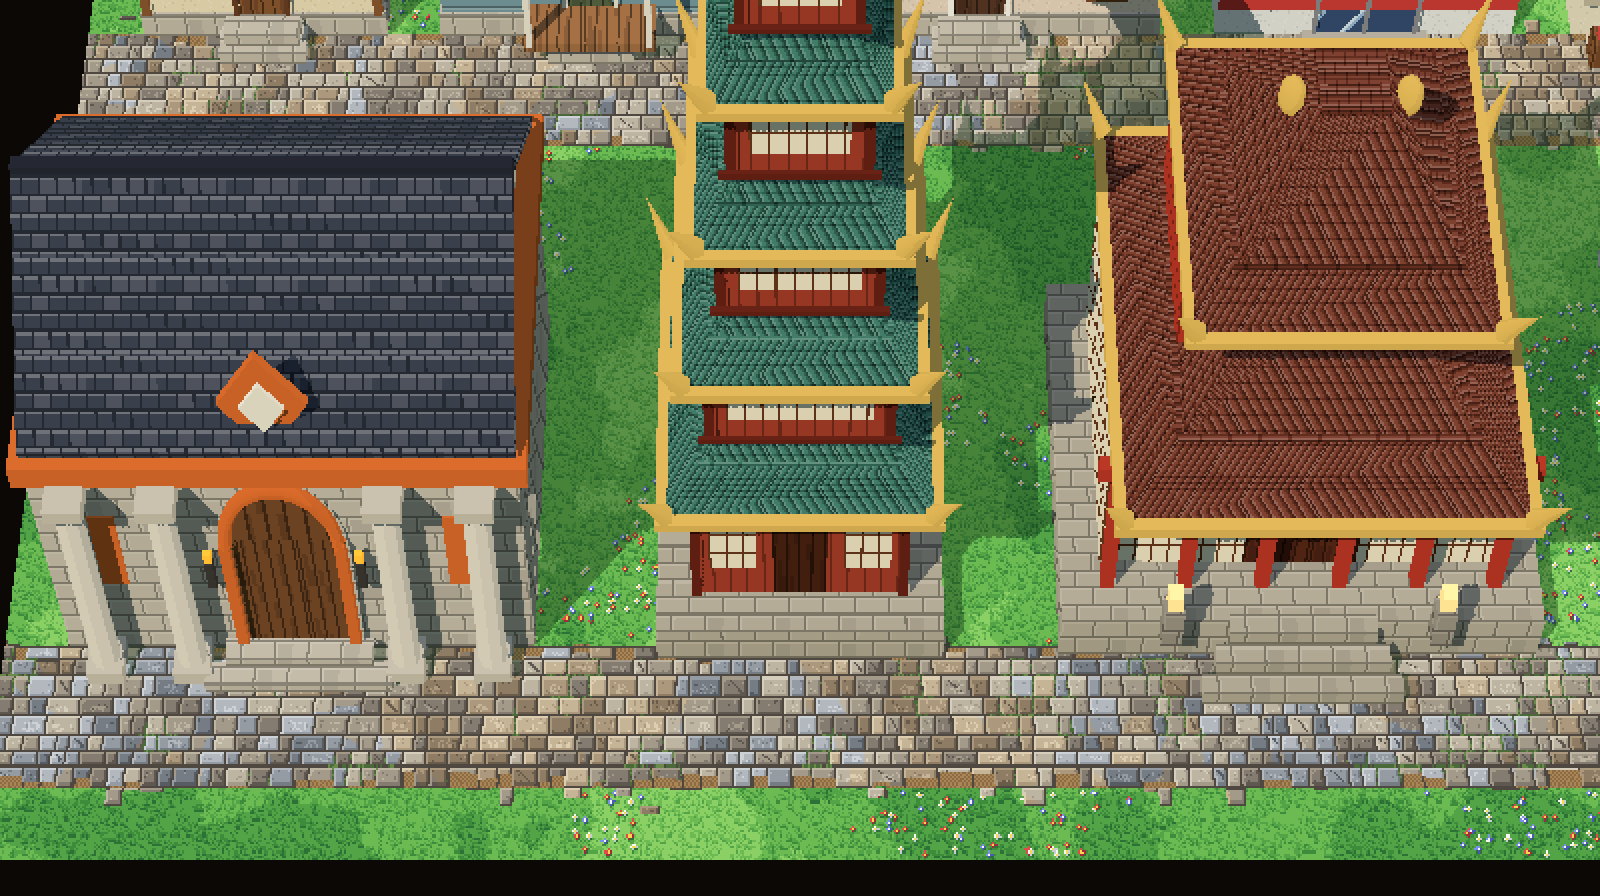
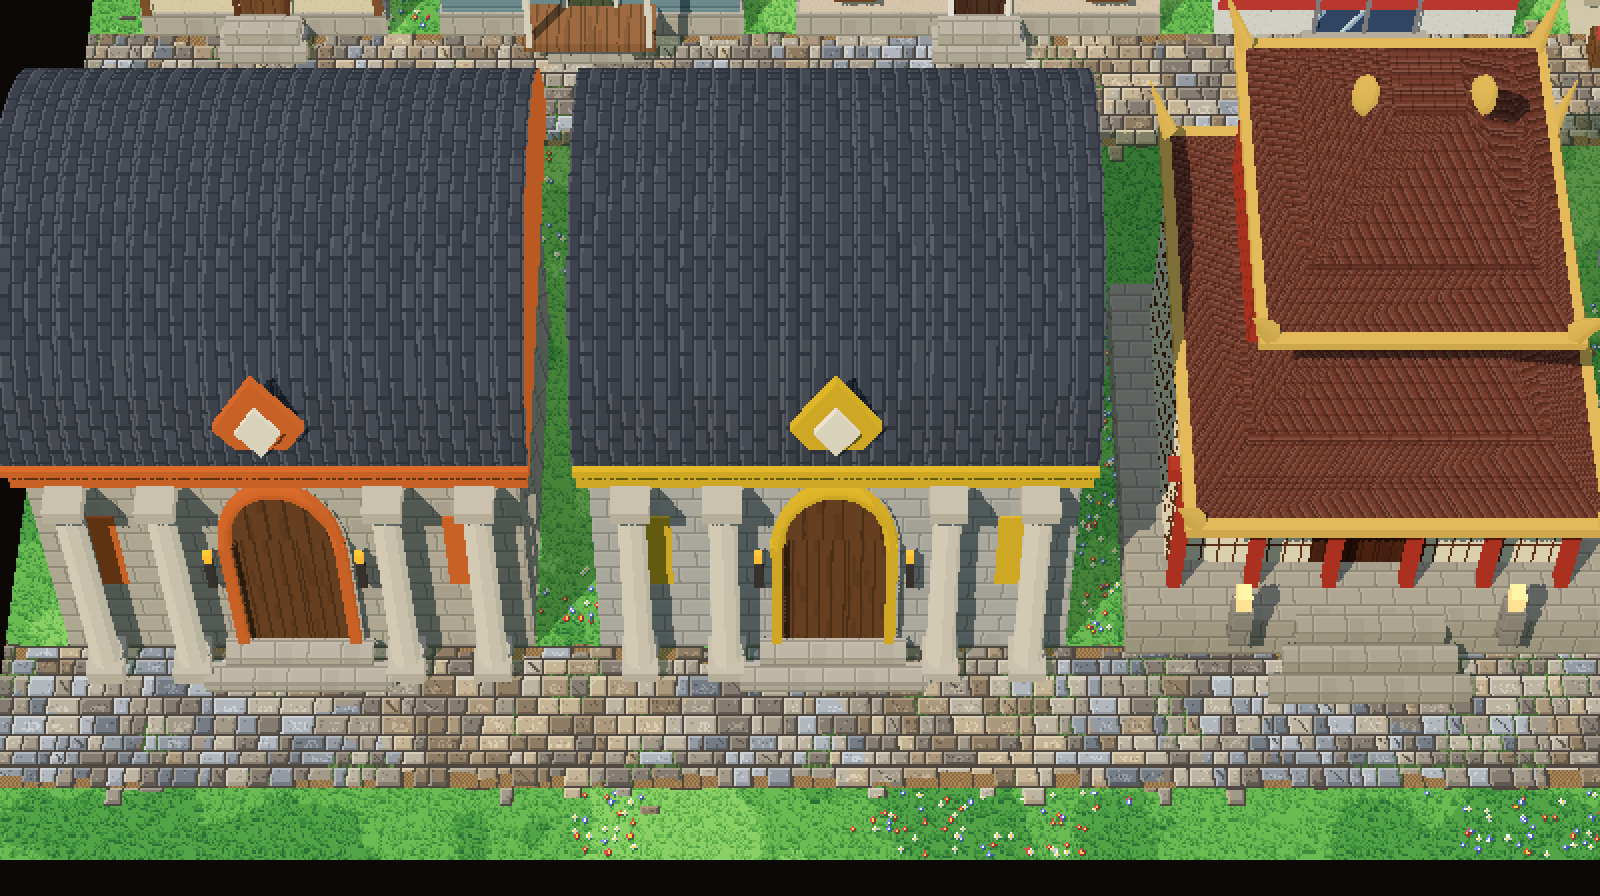
outil(odyssee): bâtiments 3D plus doux, toits arrondis, pagode monumentale [skip changelog]
Textures des bâtiments adoucies (contraste des motifs réduit, ombrage en paliers plus proches). Centre de soins,
boutique et arènes ont un toit en voûte arrondie. La pagode devient monumentale (emprise 9 × 9, grand perron,
sept étages octogonaux à balcons, toits courbes aux crochets dorés, flèche) : en jeu, au pied de l'escalier, on n'en
voit que la base. Scène « monument » dans galerie3d.html.

Claude-Session: https://claude.ai/code/session_01E9CUaRG7xUjwzj1i4ypday

diff --git a/tools/pixelforge/modeles3d.js b/tools/pixelforge/modeles3d.js
@@ -9,11 +9,20 @@ export function atelier(D) {
   const hex = (c) => [parseInt(c.slice(1, 3), 16), parseInt(c.slice(3, 5), 16), parseInt(c.slice(5, 7), 16)];
   const mix = (c, f) => { const [r, g, b] = hex(c); const m = (v) => Math.max(0, Math.min(255, Math.round(f < 0 ? v * (1 + f) : v + (255 - v) * f))); return `rgb(${m(r)},${m(g)},${m(b)})`; };
   const S = D / 32, cache = new Map();
+  const NETTES = new Set(['verre', 'croix', 'sac', 'etals', 'sol', 'shoji', 'pagodeMur']);
   function tex(key, w, h, draw, rep = true) {
     if (cache.has(key)) return cache.get(key);
     const c = document.createElement('canvas'); c.width = w; c.height = h; const g = c.getContext('2d');
     const px = (x, y, col) => { g.fillStyle = col; g.fillRect(x, y, 1, 1); };
     draw(g, px, w, h);
+    if (!NETTES.has(key)) {
+      // douceur : on rapproche chaque pixel de la teinte moyenne de la texture (motif gardé, contraste divisé par ~2)
+      const im = g.getImageData(0, 0, w, h), d = im.data, n = w * h, moy = [0, 0, 0];
+      for (let i = 0; i < d.length; i += 4) { moy[0] += d[i]; moy[1] += d[i + 1]; moy[2] += d[i + 2]; }
+      for (let k = 0; k < 3; k++) moy[k] /= n;
+      for (let i = 0; i < d.length; i += 4) for (let k = 0; k < 3; k++) d[i + k] = Math.round(moy[k] + (d[i + k] - moy[k]) * 0.55);
+      g.putImageData(im, 0, 0);
+    }
     const t = new THREE.CanvasTexture(c); t.magFilter = t.minFilter = THREE.NearestFilter; t.generateMipmaps = false;
     t.colorSpace = THREE.SRGBColorSpace; if (rep) t.wrapS = t.wrapT = THREE.RepeatWrapping; cache.set(key, t); return t;
   }
@@ -51,7 +60,7 @@ export function atelier(D) {
   };
 
   /* -------------------------------------------------------------- matériaux, primitives ----------------------------- */
-  const paliers = (() => { const d = new Uint8Array([90, 160, 225, 255]); const t = new THREE.DataTexture(d, 4, 1, THREE.RedFormat); t.minFilter = t.magFilter = THREE.NearestFilter; t.needsUpdate = true; return t; })();
+  const paliers = (() => { const d = new Uint8Array([135, 180, 222, 255]); const t = new THREE.DataTexture(d, 4, 1, THREE.RedFormat); t.minFilter = t.magFilter = THREE.NearestFilter; t.needsUpdate = true; return t; })();
   const M = (o) => new THREE.MeshToonMaterial({ gradientMap: paliers, ...o });
   const COL = (c) => M({ color: new THREE.Color(c) });
   const LUM = (c, e) => M({ color: new THREE.Color(c), emissive: new THREE.Color(e) });
@@ -95,6 +104,18 @@ export function atelier(D) {
     G.add(at(boite(w, 0.12, 0.16, COL(faite)), cx, y + hr + 0.08, cz));
     const sh = new THREE.Shape(); sh.moveTo(-(z1 - z0) / 2, 0); sh.lineTo((z1 - z0) / 2, 0); sh.lineTo(0, hr); sh.closePath();
     for (const xx of [x0 + 0.01, x1 - 0.01]) { const gm = new THREE.Mesh(new THREE.ShapeGeometry(sh), pignon); gm.rotation.y = Math.PI / 2 * (xx < cx ? -1 : 1); gm.position.set(xx, y, cz); gm.castShadow = true; G.add(gm); }
+  }
+  /** toit arrondi (voûte en demi-ellipse, axe le long de x) : x0 → x1, profondeur z0 → z1, hauteur hr, débord deb */
+  function voute(G, x0, x1, z0, z1, y, hr, mat, bout, deb = 0.25) {
+    const a = (z1 - z0) / 2 + deb, sh = new THREE.Shape(), n = 20;
+    sh.moveTo(-a, 0); for (let i = 1; i <= n; i++) { const th = Math.PI * i / n; sh.lineTo(-a * Math.cos(th), hr * Math.sin(th)); }
+    sh.lineTo(-a, 0);
+    const g = new THREE.ExtrudeGeometry(sh, { depth: x1 - x0 + 2 * deb, bevelEnabled: false, curveSegments: n });
+    const m = new THREE.Mesh(g, [bout, mat]); m.castShadow = m.receiveShadow = true;
+    m.rotation.y = Math.PI / 2; m.position.set(x0 - deb, y, (z0 + z1) / 2); G.add(m);
+    // bordure de la voûte (gouttière) devant et derrière
+    for (const s of [-1, 1]) G.add(at(boite(x1 - x0 + 2 * deb, 0.1, 0.12, bout), (x0 + x1) / 2, y + 0.04, (z0 + z1) / 2 + s * a));
+    return m;
   }
   /** toit à quatre pans (pyramide tronquée) : rx, rz demi-côtés en bas, k part du haut (0 = pointe) */
   function toit4(G, cx, cz, y, rx, rz, hr, mat, k = 0.25) {
@@ -174,26 +195,25 @@ export function atelier(D) {
   B.centre = () => {
     const G = new THREE.Group(), w = 5, d = 4, H = 2.4, cx = 2.5;
     G.add(at(boite(w, H, d, M({ map: TX.enduit('#eceef2') })), cx, H / 2, d / 2));
-    G.add(at(boite(w + 0.3, 0.3, d + 0.3, M({ map: TX.tole('#d0403c') })), cx, H + 0.15, d / 2));
-    G.add(at(boite(w + 0.34, 0.2, 0.12, COL('#ffffff')), cx, H + 0.02, d + 0.15));
+    G.add(at(boite(w + 0.3, 0.22, d + 0.3, COL('#f4f4f6')), cx, H + 0.11, d / 2));                    // corniche blanche
+    voute(G, 0, w, 0, d, H + 0.22, 1.3, M({ map: TX.tole('#d0403c') }), COL('#b83434'));
     G.add(at(boite(w, 0.18, 0.04, COL('#d0403c')), cx, 0.45, d + 0.02));
     for (const xx of [0.75, 4.25]) fenetre(G, xx, 1.5, d, 0.9, 0.85, COL('#c6c8d0'));
     G.add(at(boite(w, 0.14, 0.04, COL('#d0403c')), cx, 2.25, d + 0.02));
     portesVitrees(G, cx, d, 1.7, 1.45, COL('#8c8e96'));
     const au = boite(2.3, 0.08, 0.7, COL('#d0403c')); au.rotation.x = 0.25; G.add(at(au, cx, 1.62, d + 0.32));
-    const disc = new THREE.Mesh(new THREE.CylinderGeometry(0.55, 0.55, 0.14, 24), [COL('#e4e6ec'), M({ map: TX.croix() }), COL('#e4e6ec')]);
-    disc.rotation.x = Math.PI / 2; disc.castShadow = true; G.add(at(disc, cx, H + 0.85, d - 0.2));
-    G.add(at(boite(0.12, 0.6, 0.12, COL('#8c8e96')), cx, H + 0.45, d - 0.3));
+    const disc = new THREE.Mesh(new THREE.CylinderGeometry(0.5, 0.5, 0.14, 24), [COL('#e4e6ec'), M({ map: TX.croix() }), COL('#e4e6ec')]);
+    disc.rotation.x = Math.PI / 2; disc.castShadow = true; G.add(at(disc, cx, H + 0.7, d + 0.2));
     return G;
   };
   /** boutique (4 × 4) : toit bleu, enseigne au sac, store rayé, vitrine remplie, portes vitrées de 2 cases */
   B.boutique = () => {
     const G = new THREE.Group(), w = 4, d = 4, H = 2.3;
     G.add(at(boite(w, H, d, M({ map: TX.enduit('#ece4d0') })), w / 2, H / 2, d / 2));
-    G.add(at(boite(w + 0.3, 0.3, d + 0.3, M({ map: TX.tole('#3a68c8') })), w / 2, H + 0.15, d / 2));
-    G.add(at(boite(w + 0.34, 0.24, 0.12, COL('#284a9c')), w / 2, H + 0.02, d + 0.15));
+    G.add(at(boite(w + 0.3, 0.22, d + 0.3, COL('#f4f4f6')), w / 2, H + 0.11, d / 2));
+    voute(G, 0, w, 0, d, H + 0.22, 1.2, M({ map: TX.tole('#3a68c8') }), COL('#2c58b0'));
     const sac = new THREE.Mesh(new THREE.BoxGeometry(1.2, 0.65, 0.1), [COL('#1a2e6a'), COL('#1a2e6a'), COL('#1a2e6a'), COL('#1a2e6a'), M({ map: TX.sac() }), COL('#1a2e6a')]);
-    sac.castShadow = true; G.add(at(sac, w / 2, H + 0.7, d - 0.1));
+    sac.castShadow = true; G.add(at(sac, w / 2, H + 0.6, d + 0.18));
     G.add(at(boite(1.6, 0.95, 0.03, M({ map: TX.etals() })), 0.95, 1.0, d + 0.01));
     for (const [dx, dy, ww, hh] of [[0, 0.5, 1.7, 0.08], [0, -0.5, 1.7, 0.08], [-0.82, 0, 0.08, 1.05], [0.82, 0, 0.08, 1.05]]) G.add(at(boite(ww, hh, 0.08, COL('#c4bca8')), 0.95 + dx, 1.0 + dy, d + 0.04));
     const st = boite(4.1, 0.06, 0.8, M({ map: TX.store('#3a68c8') })); st.rotation.x = 0.35; G.add(at(st, w / 2, 1.85, d + 0.36));
@@ -207,7 +227,7 @@ export function atelier(D) {
     const G = new THREE.Group(), w = 7, d = 5, H = 2.6, cx = 3.5, z1 = d;
     G.add(at(boite(w, H, d, M({ map: TX.pierre(pierre) })), cx, H / 2, d / 2));
     G.add(at(boite(w + 0.3, 0.24, d + 0.3, COL(acc)), cx, H + 0.12, d / 2));
-    toit2(G, 0.2, w - 0.2, 0.2, d - 0.2, H + 0.24, 1.5, M({ map: TX.ardoise() }), M({ map: TX.pierre(pierre), side: THREE.DoubleSide }), 0.2, '#262a36');
+    voute(G, 0, w, 0, d, H + 0.24, 1.7, M({ map: TX.ardoise() }), COL(acc), 0.2);
     for (const xx of [0.6, 1.9, w - 1.9, w - 0.6]) {
       G.add(at(cyl(0.2, 0.22, H - 0.3, COL('#e2ddd2')), xx, H / 2, z1 + 0.25));
       G.add(at(boite(0.55, 0.16, 0.55, COL('#cec8bc')), xx, H - 0.08, z1 + 0.25)); G.add(at(boite(0.55, 0.16, 0.55, COL('#cec8bc')), xx, 0.08, z1 + 0.25));
@@ -216,8 +236,8 @@ export function atelier(D) {
     const arc = new THREE.Mesh(new THREE.TorusGeometry(0.82, 0.1, 6, 16, Math.PI), COL(acc)); arc.castShadow = true; G.add(at(arc, cx, 1.65, z1 + 0.06));
     G.add(at(new THREE.Mesh(new THREE.CircleGeometry(0.76, 16, 0, Math.PI), M({ map: TX.bois('#7a4e2c') })), cx, 1.68, z1 + 0.02));
     for (const s of [-1, 1]) G.add(at(boite(0.16, 1.7, 0.16, COL(acc)), cx + s * 0.84, 0.85, z1 + 0.06));
-    const lo = boite(0.9, 0.9, 0.12, COL(acc)); lo.rotation.z = Math.PI / 4; G.add(at(lo, cx, H + 0.75, z1 - 0.3));
-    const lo2 = boite(0.45, 0.45, 0.14, COL('#f4f0e6')); lo2.rotation.z = Math.PI / 4; G.add(at(lo2, cx, H + 0.75, z1 - 0.25));
+    const lo = boite(0.9, 0.9, 0.12, COL(acc)); lo.rotation.z = Math.PI / 4; G.add(at(lo, cx, H + 0.8, z1 + 0.1));
+    const lo2 = boite(0.45, 0.45, 0.14, COL('#f4f0e6')); lo2.rotation.z = Math.PI / 4; G.add(at(lo2, cx, H + 0.8, z1 + 0.15));
     for (const s of [-1, 1]) G.add(at(boite(0.38, 1.0, 0.03, COL(acc)), cx + s * 2.55, 1.55, z1 + 0.03));
     for (let k = 0; k < 2; k++) G.add(at(boite(2.2 + k * 0.6, 0.1, 0.32, M({ map: TX.pierre() })), cx, 0.05 + (1 - k) * 0.1, z1 + 0.2 + k * 0.28));
     for (const s of [-1, 1]) { G.add(at(boite(0.12, 0.36, 0.12, COL('#3e3a38')), cx + s * 1.1, 1.3, z1 + 0.12)); G.add(at(boite(0.11, 0.14, 0.11, LUM('#ffb040', '#ff7a00')), cx + s * 1.1, 1.53, z1 + 0.12)); }
@@ -259,29 +279,67 @@ export function atelier(D) {
     for (const s of [-1, 1]) G.add(at(boite(0.5, 1.4, 0.03, COL('#2a4a9c')), cx + s * 1.7, 2.4, d - 0.55));
     return G;
   };
-  /** pagode à étages (4 × 4, Tour de la Grue) : socle de pierre, étages en retrait de bois laqué, toits à coins relevés,
-   *  flèche dorée ; porte d'une case */
-  B.pagode = ({ etages = 5, toit = '#3a7a6a', bord = '#e8c060', bois = '#a8402c' } = {}) => {
-    const G = new THREE.Group(), w = 4, cx = 2, cz = 2;
-    G.add(at(boite(w + 0.3, 0.4, w + 0.3, M({ map: TX.pierre('#b4ae9e') })), cx, 0.2, cz));
-    let y = 0.4, r = 1.55;
+  /** toit courbe de pagode (octogonal, profil concave qui se relève au bord) : rayon r au bord, hauteur hr */
+  function toitCourbe(G, cx, cz, y, r, hr, col, bord, k = 0.3) {
+    // profil concave (f = 0 au bord, 1 au sommet) : la pente se creuse puis se relève en lèvre au bord
+    const pts = [], n = 14;
+    for (let i = 0; i <= n; i++) {
+      const f = i / n, rr = r * (1 - f * (1 - k)), yy = hr * Math.pow(f, 1.7) + (i === 0 ? 0.14 : i === 1 ? 0.03 : 0);
+      pts.push(new THREE.Vector2(rr, yy));
+    }
+    pts.reverse();
+    const g = new THREE.LatheGeometry(pts, 8, Math.PI / 8);
+    const tx = TX.canal(col).clone(); tx.repeat.set(r * 8 * 0.9, Math.hypot(r, hr) * 1.1); tx.needsUpdate = true;
+    const m = new THREE.Mesh(g, M({ map: tx, side: THREE.DoubleSide })); m.castShadow = m.receiveShadow = true;
+    G.add(at(m, cx, y, cz));
+    // rive dorée et crochets relevés aux huit coins
+    const rive = new THREE.Mesh(new THREE.TorusGeometry(r * Math.cos(Math.PI / 8) / Math.cos(Math.PI / 8), 0.07, 4, 8, Math.PI * 2), COL(bord));
+    rive.rotation.x = Math.PI / 2; rive.rotation.z = Math.PI / 8; G.add(at(rive, cx, y - 0.04, cz));
+    for (let i = 0; i < 8; i++) {
+      const th = Math.PI / 8 + i * Math.PI / 4 + Math.PI / 8, x = Math.sin(th) * r, z = Math.cos(th) * r;
+      const c = new THREE.Mesh(new THREE.TorusGeometry(0.22, 0.06, 4, 6, Math.PI / 2), COL(bord));
+      c.rotation.y = th + Math.PI / 2; c.castShadow = true; G.add(at(c, cx + x * 1.02, y + 0.12, cz + z * 1.02));
+    }
+  }
+  const pagodeMur = (bois) => tex('pagodeMur' + bois, 2 * D, 2 * D, (g, px, w, h) => {
+    for (let y = 0; y < h; y++) for (let x = 0; x < w; x++) {
+      const lx = x % w, pil = lx < 5 * S || lx >= w - 5 * S, fy = y / h;
+      let c = pil ? bois : fy < 0.1 || fy > 0.86 ? mix(bois, -0.35) : (x % (6 * S) < S || y % (6 * S) < S ? '#7a4424' : '#f2e8d0');
+      if (pil && (lx === Math.round(2 * S) || lx === w - Math.round(3 * S))) c = mix(bois, 0.2);
+      px(x, y, c);
+    }
+  });
+  /** pagode monumentale (Tour de la Grue, façon Tour Carillon de Ho-Oh) : emprise 9 × 9, grand perron, sept étages
+   *  octogonaux à balcons, toits courbes verts aux crochets dorés, flèche ; porte de 2 cases */
+  B.pagode = ({ etages = 7, toit = '#3a8a72', bord = '#e8c060', bois = '#b0442e' } = {}) => {
+    const G = new THREE.Group(), w = 9, cx = 4.5, cz = 4.5;
+    // socle à deux gradins et grand escalier
+    G.add(at(boite(w, 0.45, w, M({ map: TX.pierre('#b8b0a0') })), cx, 0.22, cz));
+    G.add(at(boite(w - 1.2, 0.45, w - 1.2, M({ map: TX.pierre('#c4bcac') })), cx, 0.67, cz));
+    for (let k = 0; k < 5; k++) G.add(at(boite(2.6, 0.18, 0.3, M({ map: TX.pierre('#c4bcac') })), cx, 0.09 + (4 - k) * 0.18, w - 0.6 + k * 0.3 - 1.0 + 0.95));
+    for (const s of [-1, 1]) { G.add(at(boite(0.5, 1.2, 0.5, M({ map: TX.pierre('#9a948a') })), cx + s * 1.6, 0.6, w + 0.1)); G.add(at(boite(0.34, 0.3, 0.34, LUM('#fff0b0', '#806020')), cx + s * 1.6, 1.35, w + 0.1)); }
+    let y = 0.9, r = 3.4;
     for (let k = 0; k < etages; k++) {
-      const h = k === 0 ? 1.5 : 1.0;
-      G.add(at(boite(2 * r, h, 2 * r, M({ map: TX.laque(bois) })), cx, y + h / 2, cz));
-      for (const sx of [-1, 1]) for (const sz of [-1, 1]) G.add(at(boite(0.14, h, 0.14, COL('#6a2418')), cx + sx * r, y + h / 2, cz + sz * r));
+      const h = k === 0 ? 2.4 : 1.5;
+      const mur = pagodeMur(bois).clone(); mur.repeat.set(8, 1); mur.needsUpdate = true;
+      const tw = new THREE.Mesh(new THREE.CylinderGeometry(r, r, h, 8, 1, false, Math.PI / 8), M({ map: mur })); tw.castShadow = tw.receiveShadow = true;
+      G.add(at(tw, cx, y + h / 2, cz));
       if (k === 0) {
-        G.add(at(boite(0.8, 1.1, 0.03, M({ map: TX.bois('#4a2414') })), cx, y + 0.55, cz + r + 0.01));
-        for (const s of [-1, 1]) G.add(at(boite(0.7, 0.6, 0.03, M({ map: TX.shoji() })), cx + s * 1.0, y + 0.7, cz + r + 0.01));
+        G.add(at(boite(1.7, 1.9, 0.06, M({ map: TX.bois('#4a2414') })), cx, y + 0.95, cz + r * Math.cos(Math.PI / 8) + 0.02));
+        G.add(at(boite(2.1, 0.16, 0.12, COL(bord)), cx, y + 1.95, cz + r * Math.cos(Math.PI / 8) + 0.05));
       } else {
-        G.add(at(boite(2 * r - 0.5, 0.45, 0.03, M({ map: TX.shoji() })), cx, y + h * 0.5, cz + r + 0.01));
-        G.add(at(boite(2 * r + 0.3, 0.06, 0.06, COL('#6a2418')), cx, y + 0.12, cz + r + 0.15));   // garde-corps
+        // balcon : plancher et garde-corps tout autour
+        const bal = new THREE.Mesh(new THREE.CylinderGeometry(r + 0.45, r + 0.45, 0.12, 8, 1, false, Math.PI / 8), COL('#6a2a1a')); bal.castShadow = true; G.add(at(bal, cx, y + 0.06, cz));
+        const rail = new THREE.Mesh(new THREE.CylinderGeometry(r + 0.42, r + 0.42, 0.35, 8, 1, true, Math.PI / 8), M({ map: TX.laque('#8a2a1a'), side: THREE.DoubleSide, transparent: false })); G.add(at(rail, cx, y + 0.3, cz));
       }
       y += h;
-      toitPagode(G, cx, cz, y, r + 0.5 - k * 0.04, 0.9, toit, bord);
-      y += 0.55; r *= 0.84;
+      toitCourbe(G, cx, cz, y, r + (k === 0 ? 1.6 : 1.15), k === 0 ? 1.4 : 1.1, toit, bord);
+      y += k === 0 ? 0.8 : 0.6; r *= 0.86;
     }
-    G.add(at(cyl(0.06, 0.12, 1.0, COL(bord)), cx, y + 0.5, cz));
-    for (let i = 0; i < 4; i++) G.add(at(cyl(0.16 - i * 0.02, 0.16 - i * 0.02, 0.05, COL(bord), 10), cx, y + 0.3 + i * 0.18, cz));
+    // flèche : anneaux dorés, perle
+    G.add(at(cyl(0.1, 0.18, 2.6, COL(bord)), cx, y + 1.3, cz));
+    for (let i = 0; i < 7; i++) G.add(at(cyl(0.34 - i * 0.03, 0.34 - i * 0.03, 0.09, COL(bord), 12), cx, y + 0.4 + i * 0.3, cz));
+    const perle = new THREE.Mesh(new THREE.SphereGeometry(0.3, 12, 8), LUM('#f8e8a0', '#806020')); G.add(at(perle, cx, y + 2.8, cz));
     return G;
   };
   /** pavillon (7 × 5, temple à deux toits) : estrade, piliers rouges, double toit à coins relevés, portes coulissantes de 2 cases */
@@ -356,5 +414,5 @@ export function atelier(D) {
 /** emprise au sol (w × d) de chaque modèle, comme dans le jeu */
 export const EMPRISES = {
   maison: [4, 3], maisonLongue: [5, 3], residence: [6, 4], centre: [5, 4], boutique: [4, 4], arene: [7, 5], labo: [6, 4],
-  ligue: [9, 6], pagode: [4, 4], pavillon: [7, 5], tour: [8, 5], escalierMontant: [1, 2], escalierDescendant: [1, 2],
+  ligue: [9, 6], pagode: [9, 9], pavillon: [7, 5], tour: [8, 5], escalierMontant: [1, 2], escalierDescendant: [1, 2],
 };

diff --git a/tools/pixelforge/galerie3d.html b/tools/pixelforge/galerie3d.html
@@ -63,8 +63,19 @@ if (vue === 'seul') {
   const haut = [['maison', 1, {}], ['maisonLongue', 6, {}], ['residence', 12, {}], ['centre', 19, {}], ['boutique', 25, {}], ['labo', 30, {}], ['maison', 37, { toit: '#3a68c8', mur: '#efe4cc', fleurs: ['#7aa0f8', '#fafaf2'] }], ['maison', 42, { toit: '#4a9a4a', mur: '#f4ecd8', fleurs: ['#f08ac0', '#fafaf2'] }], ['maisonLongue', 47, { bardage: '#c8a070', toit: '#7a3a2a' }], ['residence', 53, { mur: '#e8eef4', toit: '#3a4a6a' }]];
   for (const [n, x, o] of haut) poser(n, x, 9 - EMPRISES[n][1], o);
   // rangée du bas (z = 19)
-  const bas = [['arene', 1, { acc: '#e07030' }], ['pagode', 10, {}], ['pavillon', 16, {}], ['ligue', 25, {}], ['tour', 36, { etages: 7 }], ['arene', 46, { acc: '#3a8ce0', pierre: '#b8bec8' }], ['arene', 55, { acc: '#58c060', pierre: '#c8c0a8' }]];
+  const bas = [['arene', 1, { acc: '#e07030' }], ['arene', 9, { acc: '#e8c030', pierre: '#c4c4c4' }], ['pavillon', 17, {}], ['ligue', 25, {}], ['tour', 36, { etages: 7 }], ['arene', 46, { acc: '#3a8ce0', pierre: '#b8bec8' }], ['arene', 55, { acc: '#58c060', pierre: '#c8c0a8' }]];
   for (const [n, x, o] of bas) poser(n, x, 19 - EMPRISES[n][1], o);
+} else if (vue === 'monument') {
+  const SW = 40, SH = 34, MG = 2, kinds = new Uint8Array((SW + 2 * MG) * (SH + 2 * MG)).fill(K.G);
+  for (let y = 0; y < SH + 2 * MG; y++) for (let x = 0; x < SW + 2 * MG; x++) {
+    const gy = y - MG, gx = x - MG;
+    if (gy >= 20 && gx >= 18 && gx <= 21) kinds[y * (SW + 2 * MG) + x] = K.V;
+    if (gy >= 19 && gy <= 22 && gx >= 13 && gx <= 26) kinds[y * (SW + 2 * MG) + x] = K.V;
+  }
+  sol(kinds, SW, SH, MG, 9); ombres(0, 0, SW, SH);
+  poser('pagode', 15.5, 10.5);
+  for (const [x, z] of [[11, 14], [29, 14], [11, 24], [29, 24], [11, 8], [29, 8]]) poser('maison', x - 2, z - 3, { toit: '#7a3a2a', mur: '#efe0c8' });
+  cx = +(Q.get('cx') || 20); cz = +(Q.get('cz') || 21.5);
 } else if (vue === 'interieur') {
   // pièce de 13 × 9 : parquet, mur du fond, escalier qui monte (à droite) et qui descend (à gauche), comme dans les tours
   const W = 13, Dd = 9, tp = TX.parquet();
